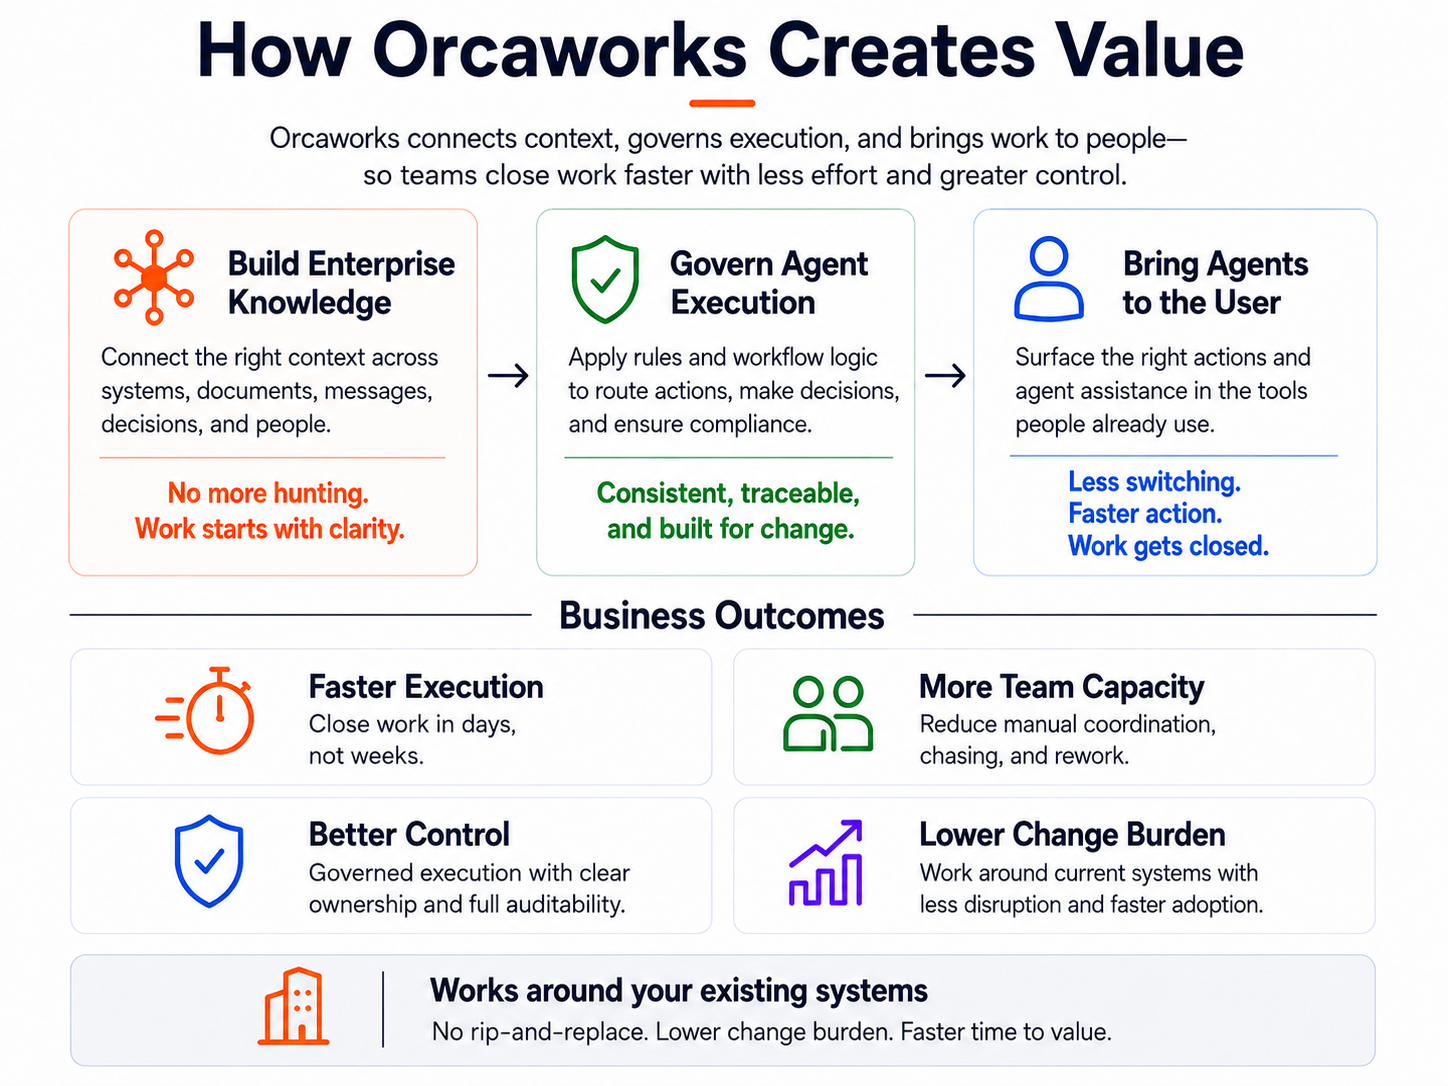
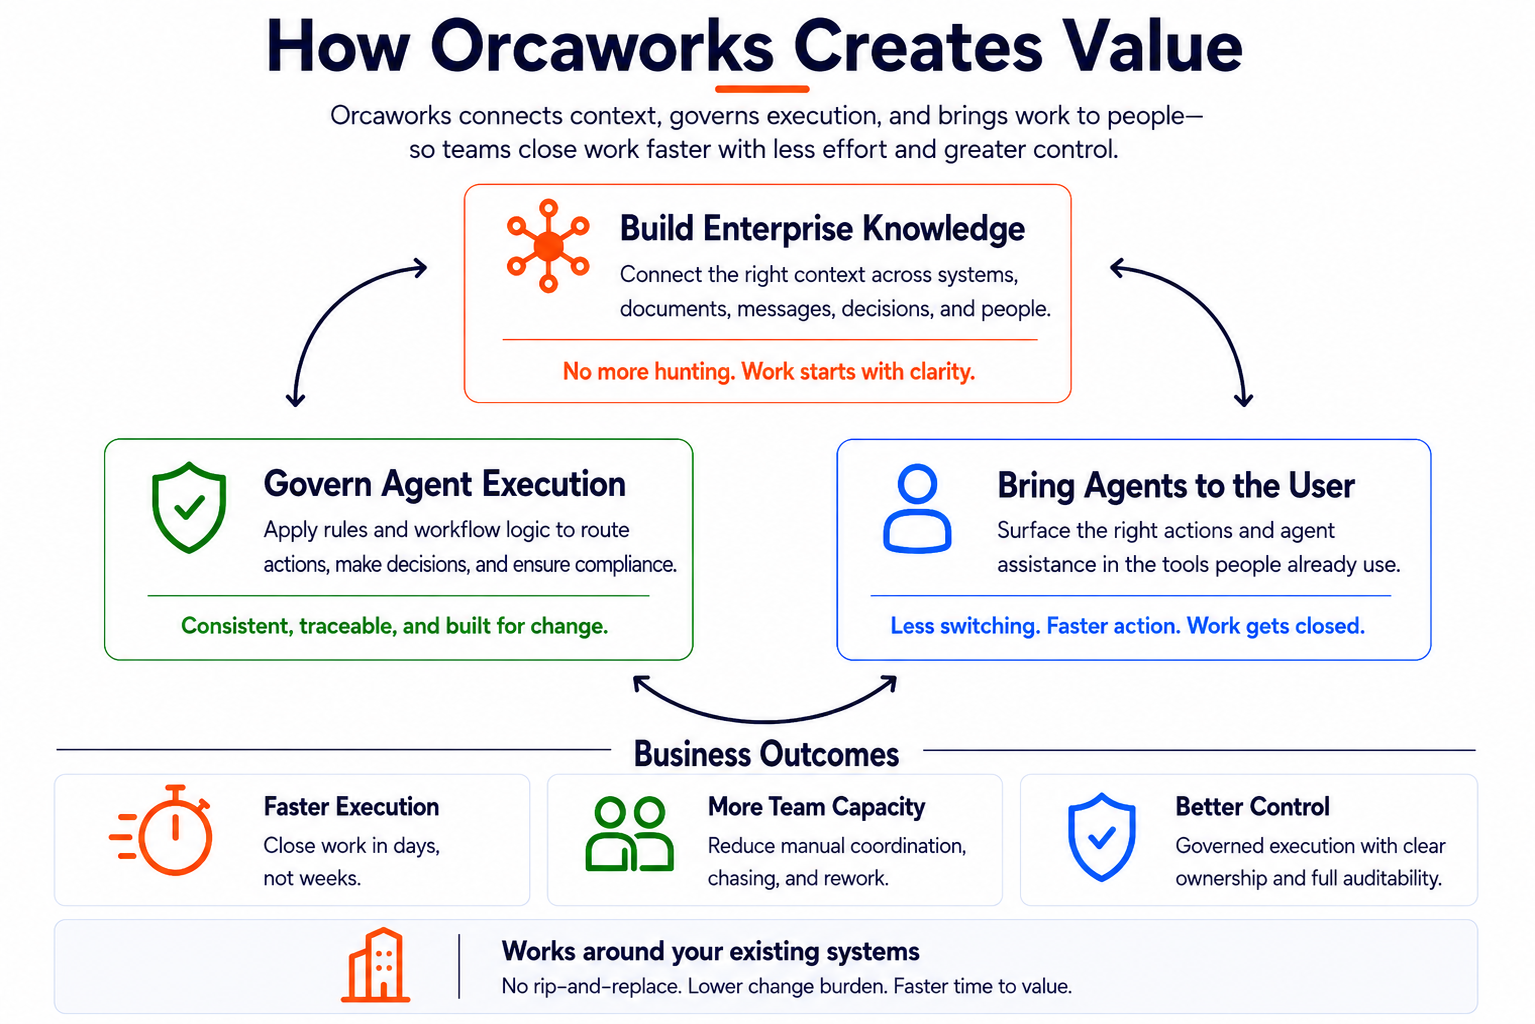
v2 of 2-pager

Changed region(s): [[0.0622, 0.0, 0.9323, 1.0], [0.404, 0.6562, 0.4351, 0.6875]]

diff --git a/content/two-pagers/supply-chain-supplier-operations.ts b/content/two-pagers/supply-chain-supplier-operations.ts
@@ -9,28 +9,28 @@ export const supplyChainSupplierOperationsBrief = {
 
   hero: {
     eyebrow: "Retail supply-chain execution",
-    headline: "Govern the supply-chain work your systems do not move",
+    headline: "Your systems hold the records. The work still stalls around them.",
     subheadline:
-      "Retail teams lose time when documents, approvals, exceptions, evidence, and system updates sit across email, portals, spreadsheets, and operational tools.",
+      "When supplier documents, receiving exceptions, and inventory decisions scatter across email, portals, and spreadsheets, your teams spend more time chasing context than closing work.",
   },
 
   page1: {
     businessCostProofPoint: {
       label: "The business cost",
       statement:
-        "Supply chain execution drag — missing supplier evidence, manual exception chasing, approval delays, and unresolved discrepancies — creates measurable cost, inventory exposure, and audit risk across retail operations.",
-      source: "Industry research",
+        "95% of retail executives expect global trade policies to push costs higher, while 71% report that financial discipline and stronger cost control now define competitive advantage.",
+      source: "Deloitte — 2026 Global Retail Industry Outlook",
     },
 
     challenge: {
       title: "The challenge",
       body:
-        "The issue is not usually the ERP, WMS, planning, supplier, or returns system. The drag sits around the record: missing evidence, unclear ownership, manual follow-up, approvals, and exception closure. These gaps accumulate into supplier delays, receiving backlogs, inventory exposure, and audit risk.",
+        "You already have the systems. What you don't have is clean execution around them. Supplier documents arrive incomplete. Receiving discrepancies sit unresolved. Inventory exceptions age out. The work doesn't fail because the ERP is broken — it stalls because nobody knows who owns the next action.",
     },
 
     solutionVisual: {
       title: "How Orcaworks governs the retail execution layer",
-      imagePath: "/images/orcaworks-stack.png?v=3",
+      imagePath: "/images/orcaworks-stack.png?v=5",
       leftLabel: "Existing retail systems",
       leftItems: [
         "ERP and order management",
@@ -41,18 +41,18 @@ export const supplyChainSupplierOperationsBrief = {
       ],
       middleLabel: "Orcaworks governed execution layer",
       middleItems: [
-        "Connects context",
-        "Routes work",
-        "Governs decisions",
-        "Records evidence",
-        "Brings actions to users",
+        "Builds workflow context",
+        "Routes to the right owner",
+        "Checks evidence completeness",
+        "Records every decision",
+        "Surfaces next actions",
       ],
       rightLabel: "Outcomes",
       rightItems: [
-        "Faster supplier readiness",
-        "Fewer receiving exceptions",
-        "Cleaner inventory decisions",
-        "Audit-ready evidence",
+        "Suppliers ready to trade faster",
+        "Exceptions close, not age",
+        "Decisions happen with full context",
+        "Evidence ready when you need it",
       ],
     },
 
@@ -60,24 +60,24 @@ export const supplyChainSupplierOperationsBrief = {
       title: "Orcaworks value to retail operations",
       items: [
         {
-          title: "Works around your retail stack — no system replacement",
+          title: "Fits around what you already run",
           description:
-            "Orcaworks governs the execution layer that sits around existing ERP, WMS, planning, and supplier systems.",
+            "Don't replace your ERP, WMS, or planning tools. Orcaworks governs the execution work that happens between them.",
         },
         {
-          title: "Governed execution with full audit trail",
+          title: "Every decision leaves a trail",
           description:
-            "Every supplier document, exception, approval, and disposition decision is checked, routed, recorded, and retrievable.",
+            "Supplier approvals, exception closures, and disposition calls are recorded with full context — not buried in email threads.",
         },
         {
-          title: "Supplier and DC capacity leverage without headcount",
+          title: "Do more with the team you have",
           description:
-            "Reduce manual coordination across supplier onboarding, receiving, and exception closure while maintaining control.",
+            "Handle supplier onboarding, receiving exceptions, and inventory decisions without adding headcount or losing control.",
         },
         {
-          title: "Control as suppliers, systems, and teams change",
+          title: "Built for change, not just today's setup",
           description:
-            "Maintain consistent execution standards as supplier bases, DC footprints, planning systems, and teams evolve.",
+            "Your supplier base will shift. Your DC footprint will expand. Your systems will change. Your execution layer shouldn't break when they do.",
         },
       ],
     },
@@ -85,30 +85,30 @@ export const supplyChainSupplierOperationsBrief = {
     bottomCallout: {
       title: "The opportunity",
       statement:
-        "Govern the execution layer around existing retail systems and show measurable movement in supplier readiness, exception closure, and evidence control — without replacing core platforms.",
+        "Pick one workflow where delay, missing evidence, and unclear ownership are already visible. Baseline it. Govern it. Prove whether work closes faster.",
     },
   },
 
   page2: {
     title: "Where Orcaworks creates value in retail supply chain",
     subtitle:
-      "Governed execution shows up in the workflows where supplier delays, receiving exceptions, inventory gaps, and evidence risk are already visible.",
+      "Start with the workflows where your teams already feel the drag. The ones where exceptions age, evidence goes missing, and nobody's sure who should act next.",
 
     strategicBusinessPriorities: [
       {
         title: "Supplier readiness and inbound exception closure",
         description:
-          "Govern supplier documents, evidence, and approvals before trading is blocked. Connect POs, receipts, invoices, and claims so exceptions close cleanly.",
+          "Get suppliers ready to trade before the first blocked order. Close receiving discrepancies with complete evidence, not email archaeology.",
       },
       {
         title: "Inventory exception resolution and replenishment control",
         description:
-          "Turn planning and stock signals into owner-assigned workflows with clear decisions. Route counts, checks, and allocation decisions through governed paths.",
+          "When the system says you have stock but the shelf is empty, someone needs to own the answer. Route the exception to the right person with the context they need.",
       },
       {
         title: "Traceability readiness and evidence control",
         description:
-          "Keep supplier, product, certificate, and batch evidence ready before regulatory pressure hits. Assemble complete packs in hours with every document retrievable.",
+          "Don't wait for a recall to find out your evidence is scattered. Keep supplier certificates, batch records, and product documentation ready before you need them.",
       },
     ],
 
@@ -116,55 +116,55 @@ export const supplyChainSupplierOperationsBrief = {
       {
         title: "Supplier onboarding",
         description:
-          "Check required documents, request missing evidence, route approvals, and record supplier-ready status.",
+          "Bank details, insurance, certificates, EDI setup — get everything checked and approved.",
       },
       {
         title: "Receiving discrepancies",
         description:
-          "Match PO, ASN, receipt, invoice, damage evidence, supplier terms, and closure decision.",
+          "Pull together the PO, photos, invoice, and supplier response to close it cleanly.",
       },
       {
         title: "Replenishment exceptions",
         description:
-          "Route store counts, DC checks, supplier updates, allocation decisions, and system updates.",
+          "Route stockouts and inventory mismatches to whoever can fix them with full context.",
       },
       {
         title: "Recall evidence packs",
         description:
-          "Assemble product, supplier, batch, certificate, incident, and communication evidence for timed dry-runs.",
+          "Assemble supplier documents, batch records, and certificates when you need them.",
       },
     ],
 
     valueMetrics: [
       {
         metric: "Cycle time",
-        baseline: "Current average per record",
-        movement: "20–40% reduction target",
-        impact: "Faster supplier and operational closure",
+        baseline: "Current average per workflow",
+        movement: "20–40% faster",
+        impact: "Work closes, doesn't sit",
       },
       {
-        metric: "Manual follow-up touches",
-        baseline: "Current coordination load per case",
-        movement: "25–50% reduction target",
-        impact: "Less chasing across supplier and DC teams",
+        metric: "Manual follow-up",
+        baseline: "Current touches per case",
+        movement: "25–50% fewer",
+        impact: "Less time chasing people",
       },
       {
         metric: "First-pass completeness",
         baseline: "Current complete-on-arrival rate",
-        movement: "15–30 point improvement target",
-        impact: "Fewer missing documents on arrival",
+        movement: "15–30 points better",
+        impact: "Evidence shows up right the first time",
       },
       {
         metric: "Aged exceptions",
-        baseline: "Current unresolved backlog",
-        movement: "20–40% reduction target",
-        impact: "Fewer stalled decisions in the DC",
+        baseline: "Current backlog beyond SLA",
+        movement: "20–40% reduction",
+        impact: "Fewer cases stuck in limbo",
       },
     ],
 
     cta: {
       statement:
-        "Automate your first workflow in 8 weeks — start with supplier onboarding, receiving exceptions, or inventory resolution.",
+        "Start with one workflow. Baseline how long it takes today. Then prove whether governed execution makes it faster.",
       url: "https://orcaworks.ai",
     },
   },

diff --git a/components/onepager/TwoPageVerticalBrief.tsx b/components/onepager/TwoPageVerticalBrief.tsx
@@ -82,7 +82,7 @@ export function TwoPageVerticalBrief(props: TwoPageVerticalBrief) {
             <div className="col-span-3 flex flex-col gap-6">
 
               {/* Solution visual */}
-              <div className="relative w-full" style={{ height: "320px" }}>
+              <div className="relative w-full overflow-hidden mt-4" style={{ height: "320px" }}>
                 <Image
                   src={props.page1.solutionVisual.imagePath || "/images/supply-chain-speed.jpg"}
                   alt="Solution visual"
@@ -163,7 +163,7 @@ export function TwoPageVerticalBrief(props: TwoPageVerticalBrief) {
 
               <div>
                 <h2 className="text-xs font-bold text-gray-800 uppercase tracking-wider mb-3">
-                  Priority workflows to target
+                  Initial workflows to target
                 </h2>
                 <div className="space-y-3">
                   {props.page2.priorityWorkflows.map((workflow, idx) => (
